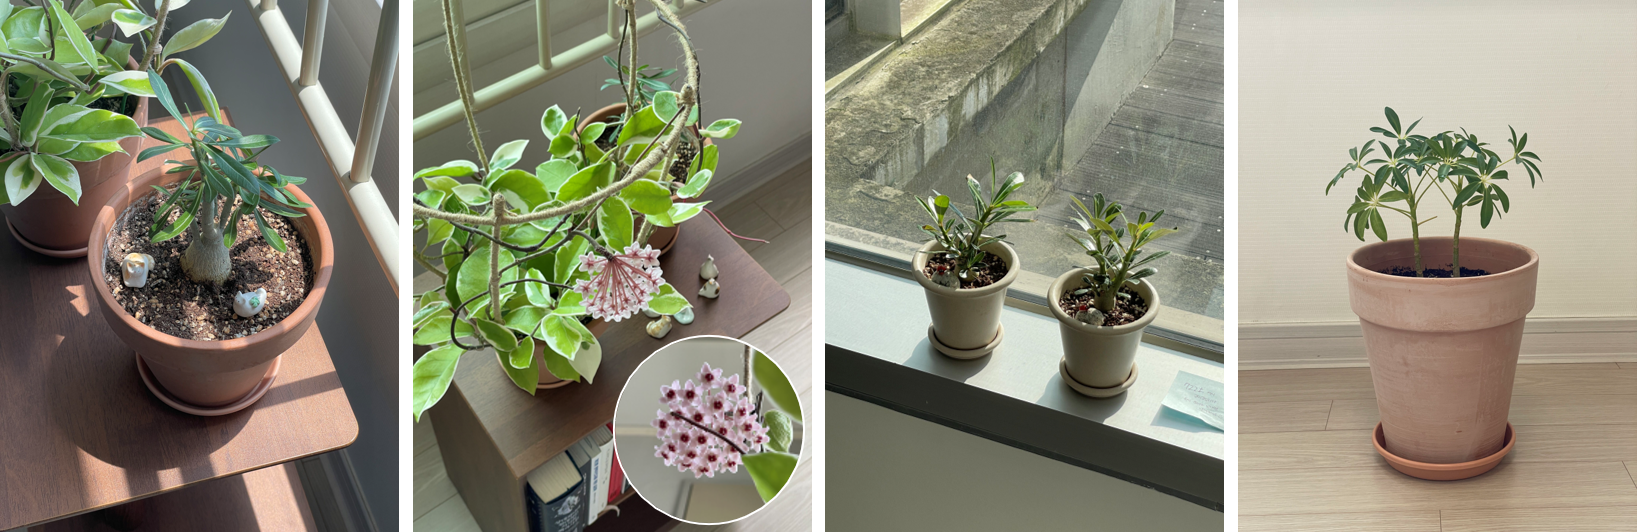
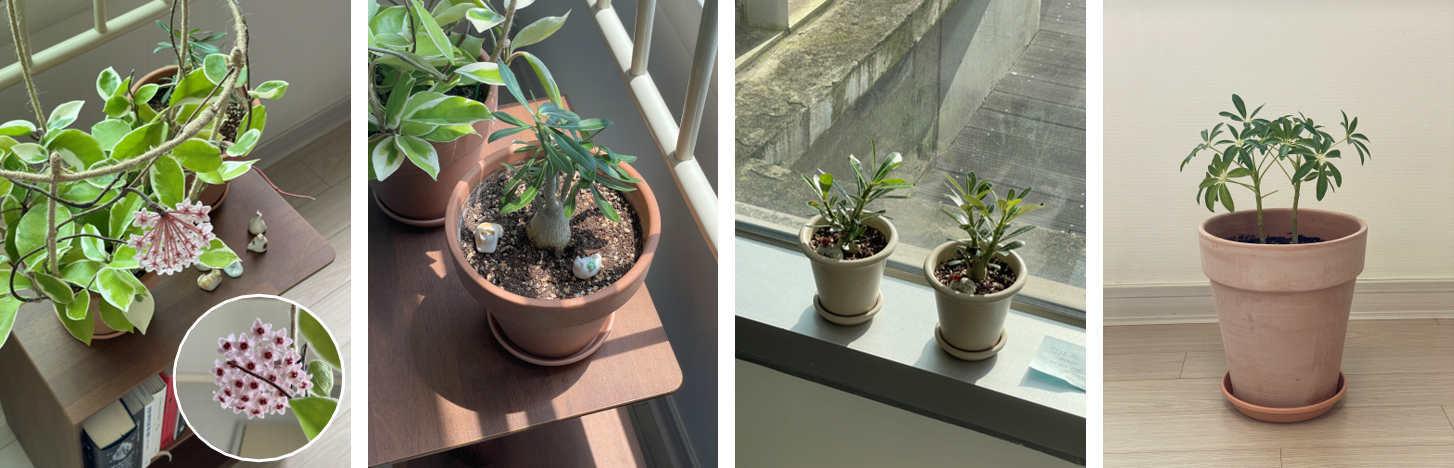
Updated plant UI and Google Scholars link

diff --git a/_pages/about.md b/_pages/about.md
@@ -22,7 +22,7 @@ social: true  # includes social icons at the bottom of the page
 > *" I connect **Humans** with **Computers** through novel **Input Devices** and **Physical Interaction** techniques!! "*
 
 Hi! 👋 This is **[Kyunghwan](https://kyunghwan.xyz/)**, a Ph.D. student in **[School of Computing](https://cs.kaist.ac.kr/)**, **[KAIST](https://www.kaist.ac.kr/)**.
-I am part of the Human-Computer Interaction Lab (**[HCIL](https://hcil.kaist.ac.kr/)**), advised by Professor **[Geehyuk Lee](https://scholar.google.co.kr/citations?user=wBXkmcQAAAAJ)**.
+I am part of the Human-Computer Interaction Lab (**[HCIL](https://hcil.kaist.ac.kr/)**), advised by Professor **[Geehyuk Lee](https://scholar.google.co.kr/citations?user=0juZBecAAAAJ)**.
 
 I am highly interested in creating new **physical input methods and devices** to better assist **input for XR devices**.
 
@@ -32,14 +32,20 @@ Besides research, I occasionally **[cook](https://www.instagram.com/human_food_i
 
 <div id="plant-photo-container" style="max-height: 0; opacity: 0; overflow: hidden; transition: max-height 0.4s ease, opacity 0.4s ease, margin 0.4s ease; margin-top: 0; margin-bottom: 0;">
   <div style="background: rgba(255, 255, 255, 0.05); padding: 12px; border-radius: 8px; border: 1px solid rgba(255, 255, 255, 0.1); text-align: center;">
-    <img src="/assets/img/plants.png" alt="My Indoor Plants" style="max-width: 100%; max-height: 320px; border-radius: 6px; display: block; margin: 0 auto;">
-    <p style="font-size: 0.85rem; color: var(--global-text-color-light); margin: 8px 0 0 0;">🌿 Hoya, Dwarf Umbrella, and Adenium Obesum</p>
+    <img id="plant-img" data-src="{{ '/assets/img/plants.png' | relative_url }}" alt="My Indoor Plants" style="max-width: 100%; max-height: 320px; border-radius: 6px; display: block; margin: 0 auto;">
+    <p style="font-size: 0.85rem; color: var(--global-text-color-light); margin: 8px 0 0 0;">🌿 Hoya, Adenium Obesum(s), and Dwarf Umbrella Tree </p>
   </div>
 </div>
 
 <script>
 function togglePlantPhoto() {
   const container = document.getElementById('plant-photo-container');
+  const img = document.getElementById('plant-img');
+
+  if (!img.src && img.dataset.src) {
+    img.src = img.dataset.src;
+  }
+
   if (container.style.maxHeight === '0px' || container.style.maxHeight === '0' || !container.style.maxHeight) {
     container.style.maxHeight = '400px';
     container.style.opacity = '1';
